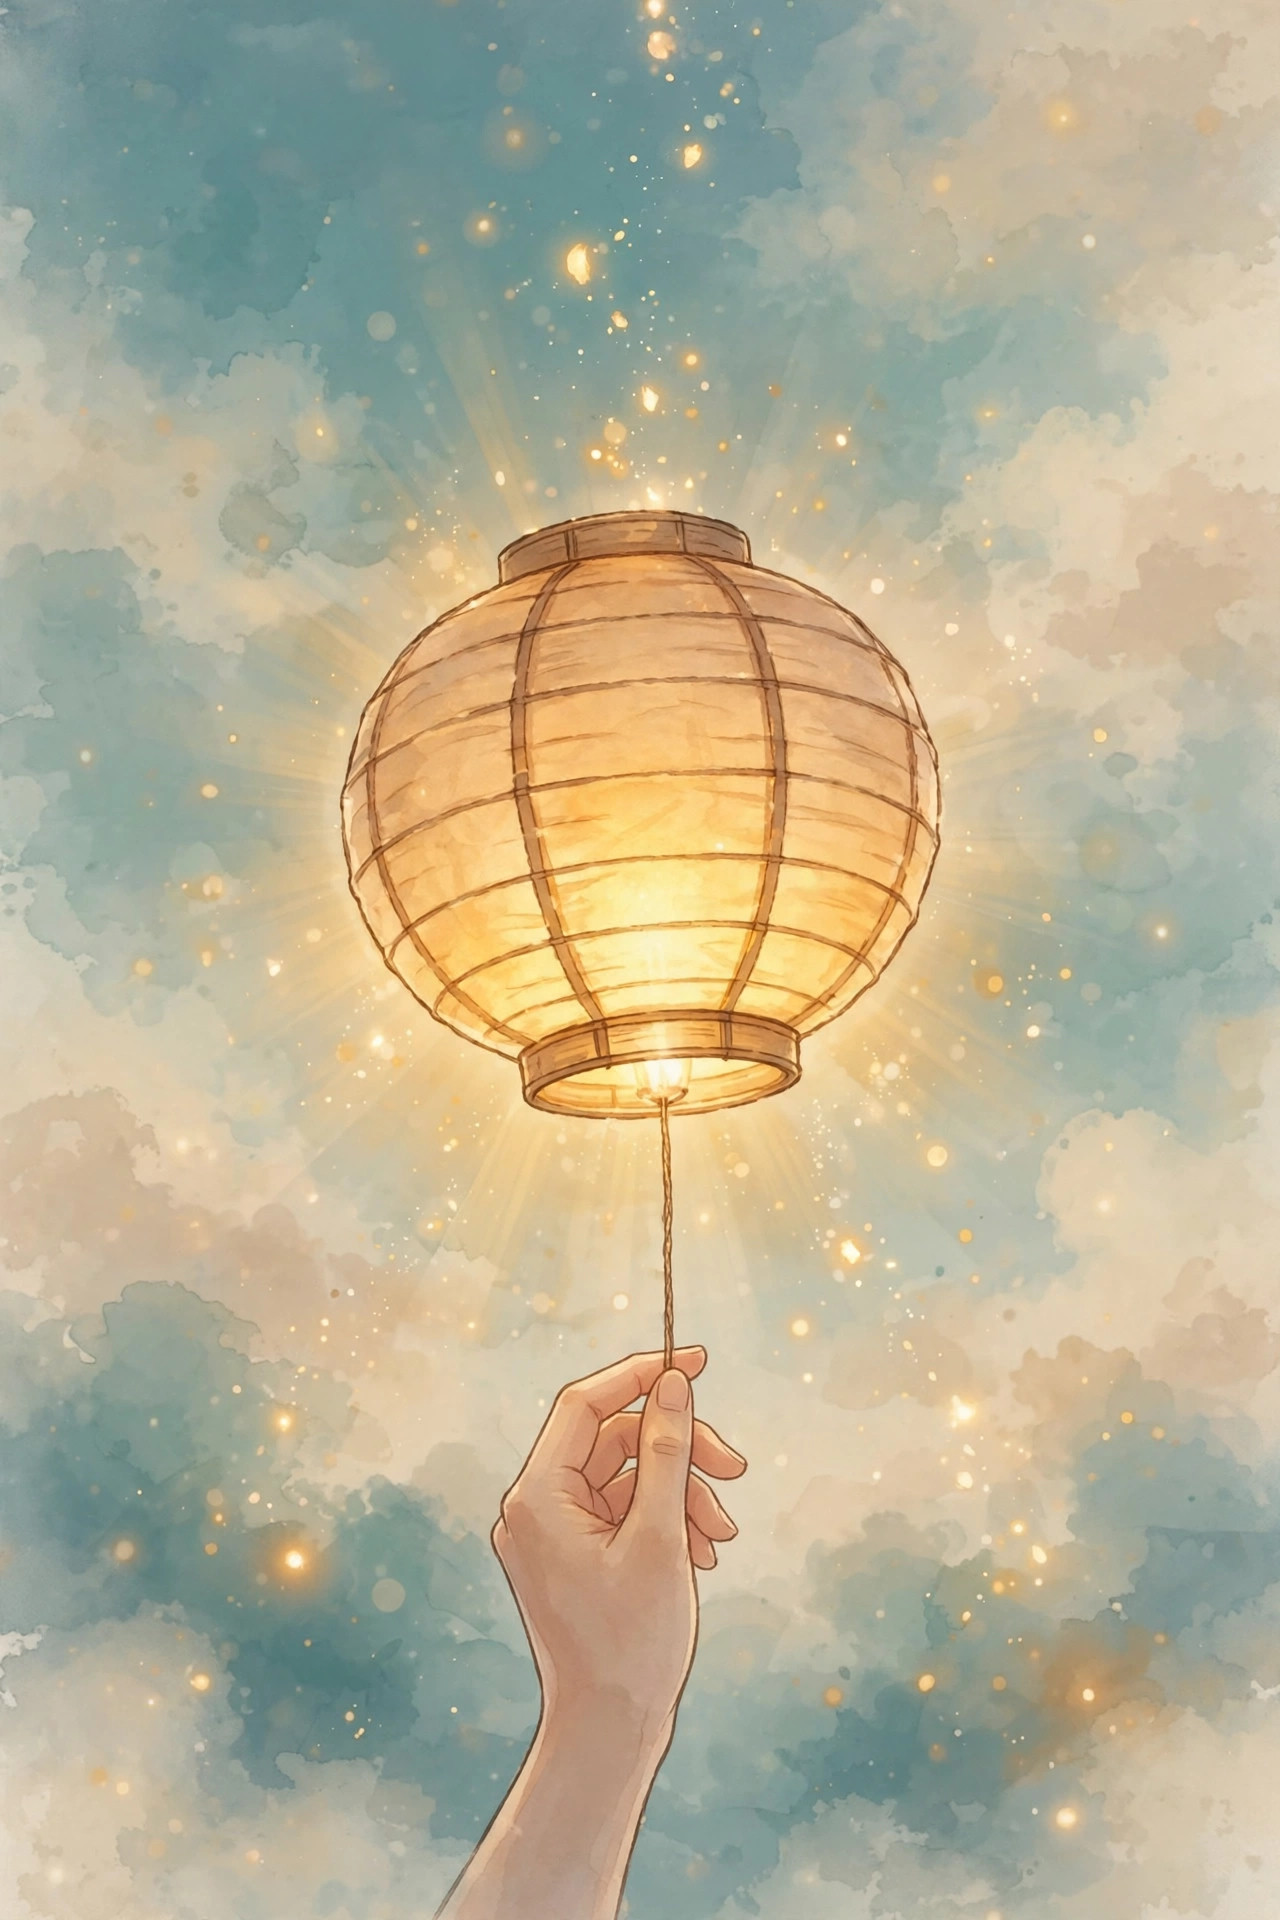
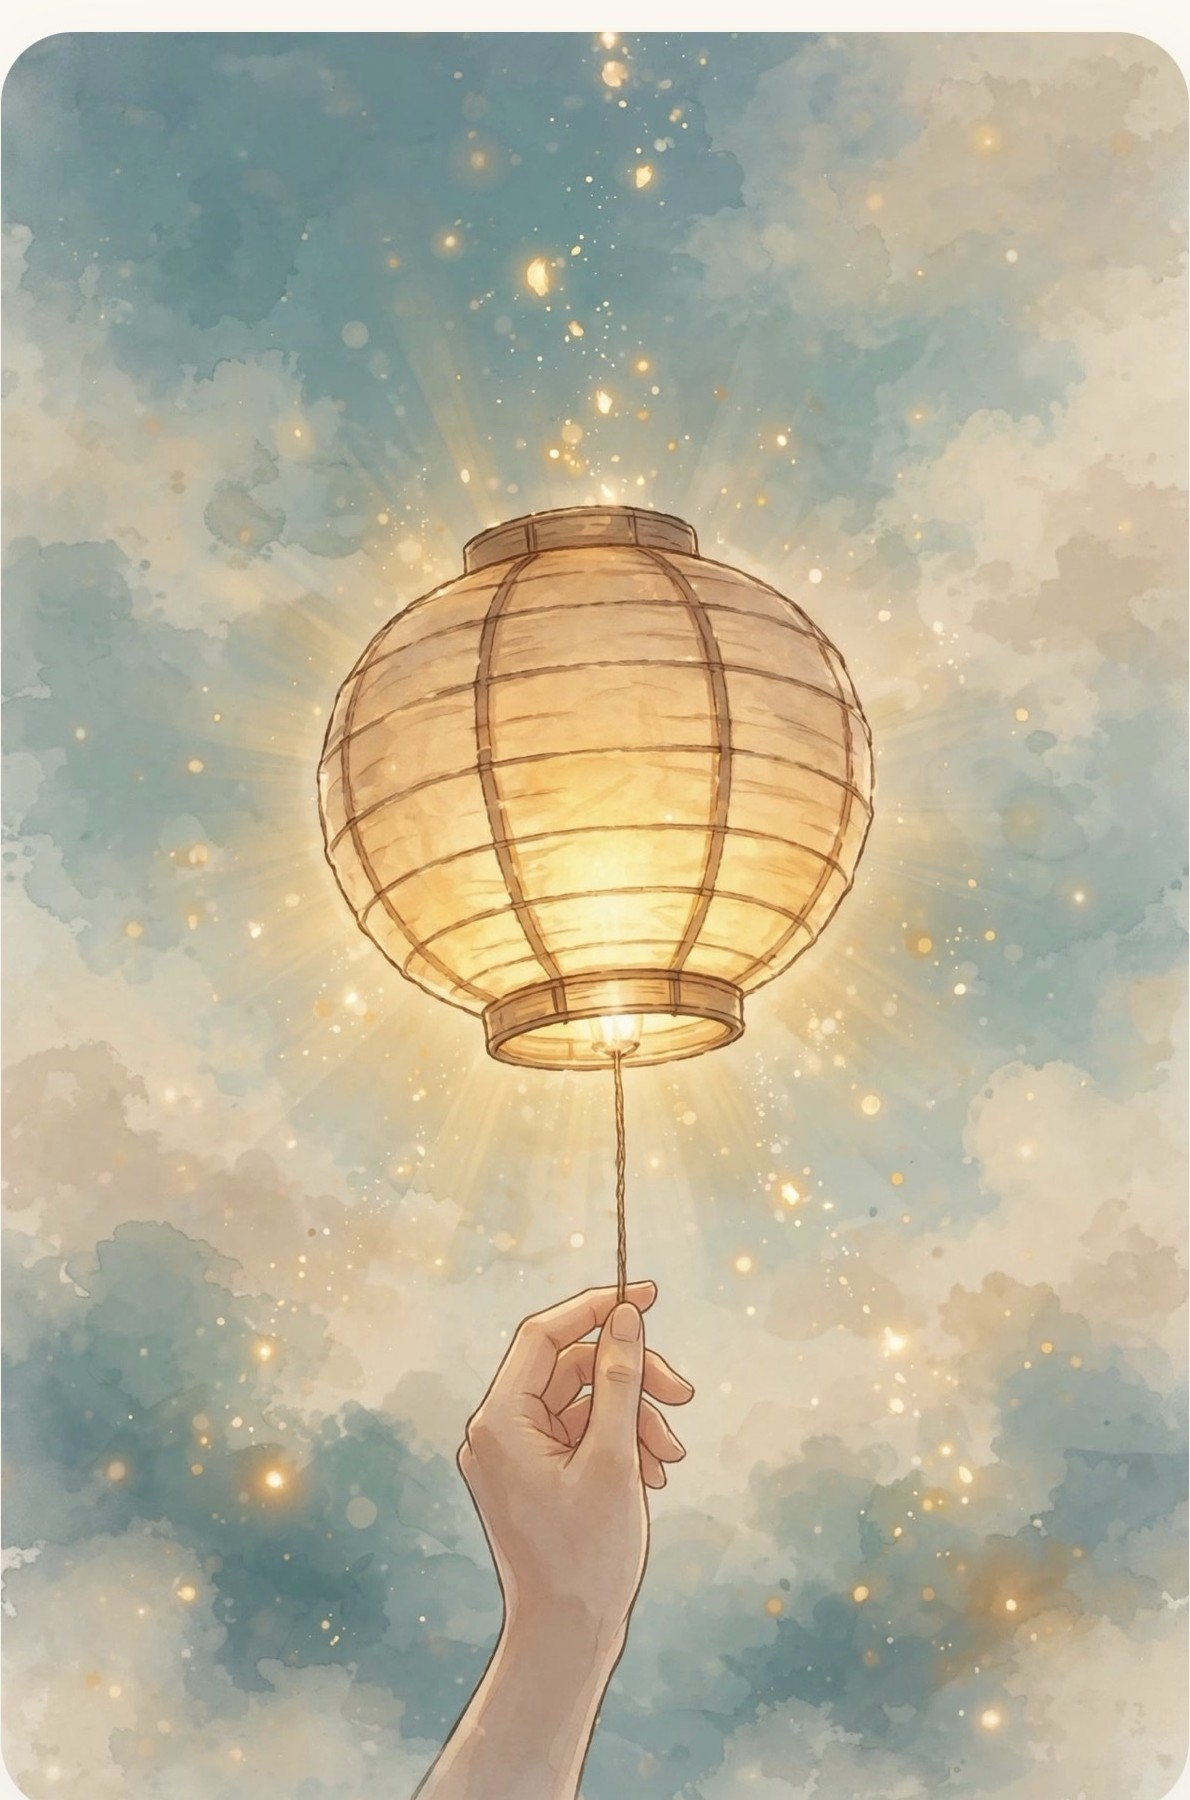
Homepage Lantern image: watercolor hand-held lantern in site style

diff --git a/index.html b/index.html
@@ -73,7 +73,7 @@
 <div class="section-head"><span class="eyebrow">In partnership</span><h2>The Lantern Project</h2>
 <p class="lead">We teamed up with The Guided Pathway Foundation to build something free for every family.</p></div>
 <div class="split">
-<div><img class="portrait" src="assets/img/lantern-project.jpg" alt="A glowing paper lantern rising into a twilight sky" loading="lazy"></div>
+<div><img class="portrait" src="assets/img/lantern-project.jpg" alt="A hand holding a glowing paper lantern against a watercolor sky" loading="lazy"></div>
 <div>
 <p>The Lantern Project is a free emotional intelligence resource hub for families and caregivers, built on the ideas in Kayla's books. It offers simple, practical tools anyone can use to understand emotions, reset in tough moments, and keep growing, no appointment needed.</p>
 <p style="margin-top:1.25rem"><a href="https://www.theguidedpathwayfoundation.com" target="_blank" rel="noopener"><img src="assets/img/gpf-logo.jpg" alt="The Guided Pathway Foundation logo" loading="lazy" style="width:120px;border-radius:16px"></a></p>
